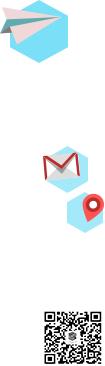
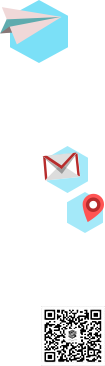
index.html 0.0.8

Changed region(s): [[0.4, 0.8415, 0.9714, 1.0]]

diff --git a/igem.html b/igem.html
@@ -81,21 +81,18 @@
 												<p class="menu-tag"> PROJECT </p>
 												<ul class="menu-list">
 													<li> Over View </li>
-													<li> Note Book </li>
 												</ul>
 											</td>
 											<td style="width:115px">
 												<p class="menu-tag"> ACHIEVEMENT </p>
 												<ul class="menu-list">
 													<li> Results </li>
-													<li> Registrs Part </li>
 													<li> Judging Form </li>
 													<li> Financing </li>
-													<li> Acknowledgement </li>
 												</ul>
 											</td>
 											<td style="width:152px">
-												<p class="menu-tag"> POCLICY &amp; PRACTIES </p>
+												<p class="menu-tag"> POCLICY &amp; PRACTICES </p>
 												<ul class="menu-list">
 													<li> Over View </li>
 													<li> Meet Ups </li>
@@ -105,10 +102,10 @@
 												<p class="menu-tag"> TEAM </p>
 												<ul class="menu-list">
 													<li url="team_member.html"> Team Member </li>
-													<li> Collaboration </li>
 													<li> Attributions </li>
 													<li url="contact_us.html"> Contact Us </li>
 													<li style="line-height:14px"> Offical</br>Team Profile </li>
+													<li> Acknowledgement </li>
 												</ul>
 											</td>
 											<td style="width:153px">

diff --git a/css/contact_us.css b/css/contact_us.css
@@ -61,7 +61,7 @@ body {
 .cs-wechat-img {
 	background-image: url("../resources/contactus.png");
 	background-repeat: no-repeat;
-	background-position: -41px -307px;
+	background-position: -41px -305px;
 	width: 64px;
 	height: 59px;
 	display: inline-block;

diff --git a/team_member.html b/team_member.html
@@ -1,0 +1,8 @@
+<html>
+	<head>
+		<link rel="stylesheet" type="text/css" href="css/team_member.css">
+	</head>
+	<body>
+
+	</body>
+</html>
